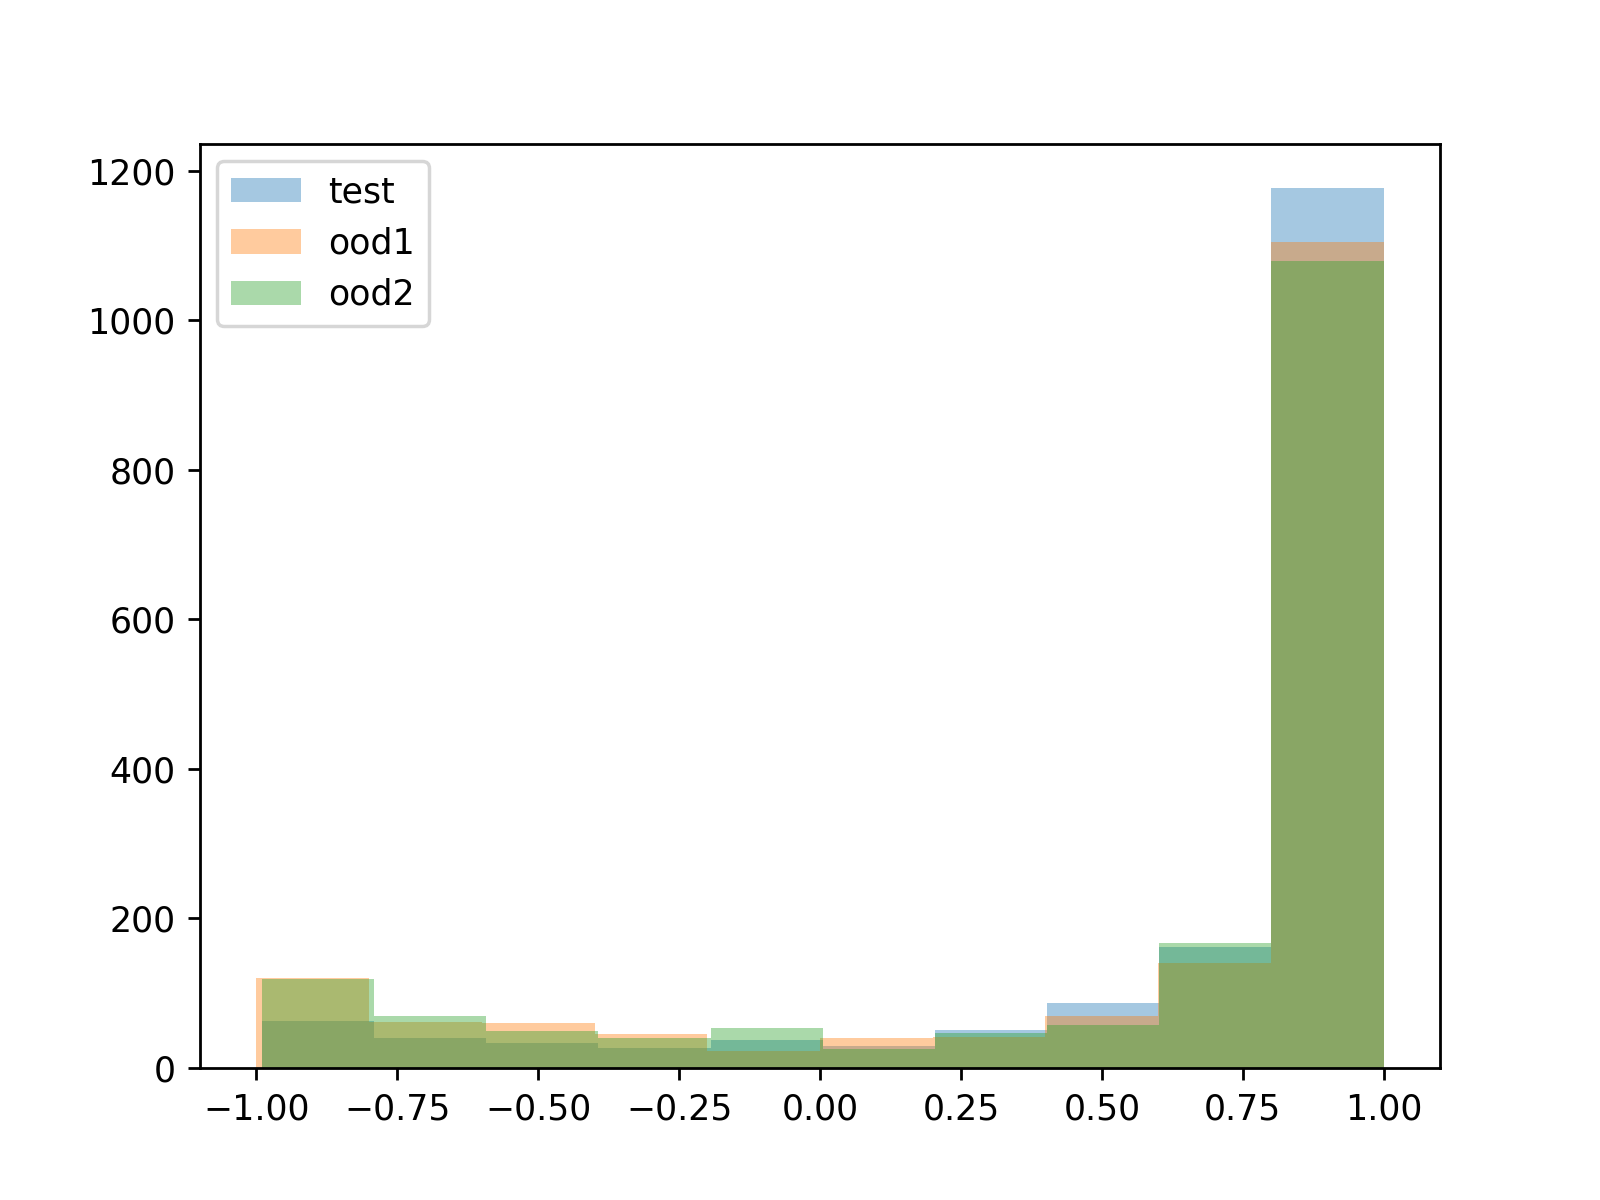
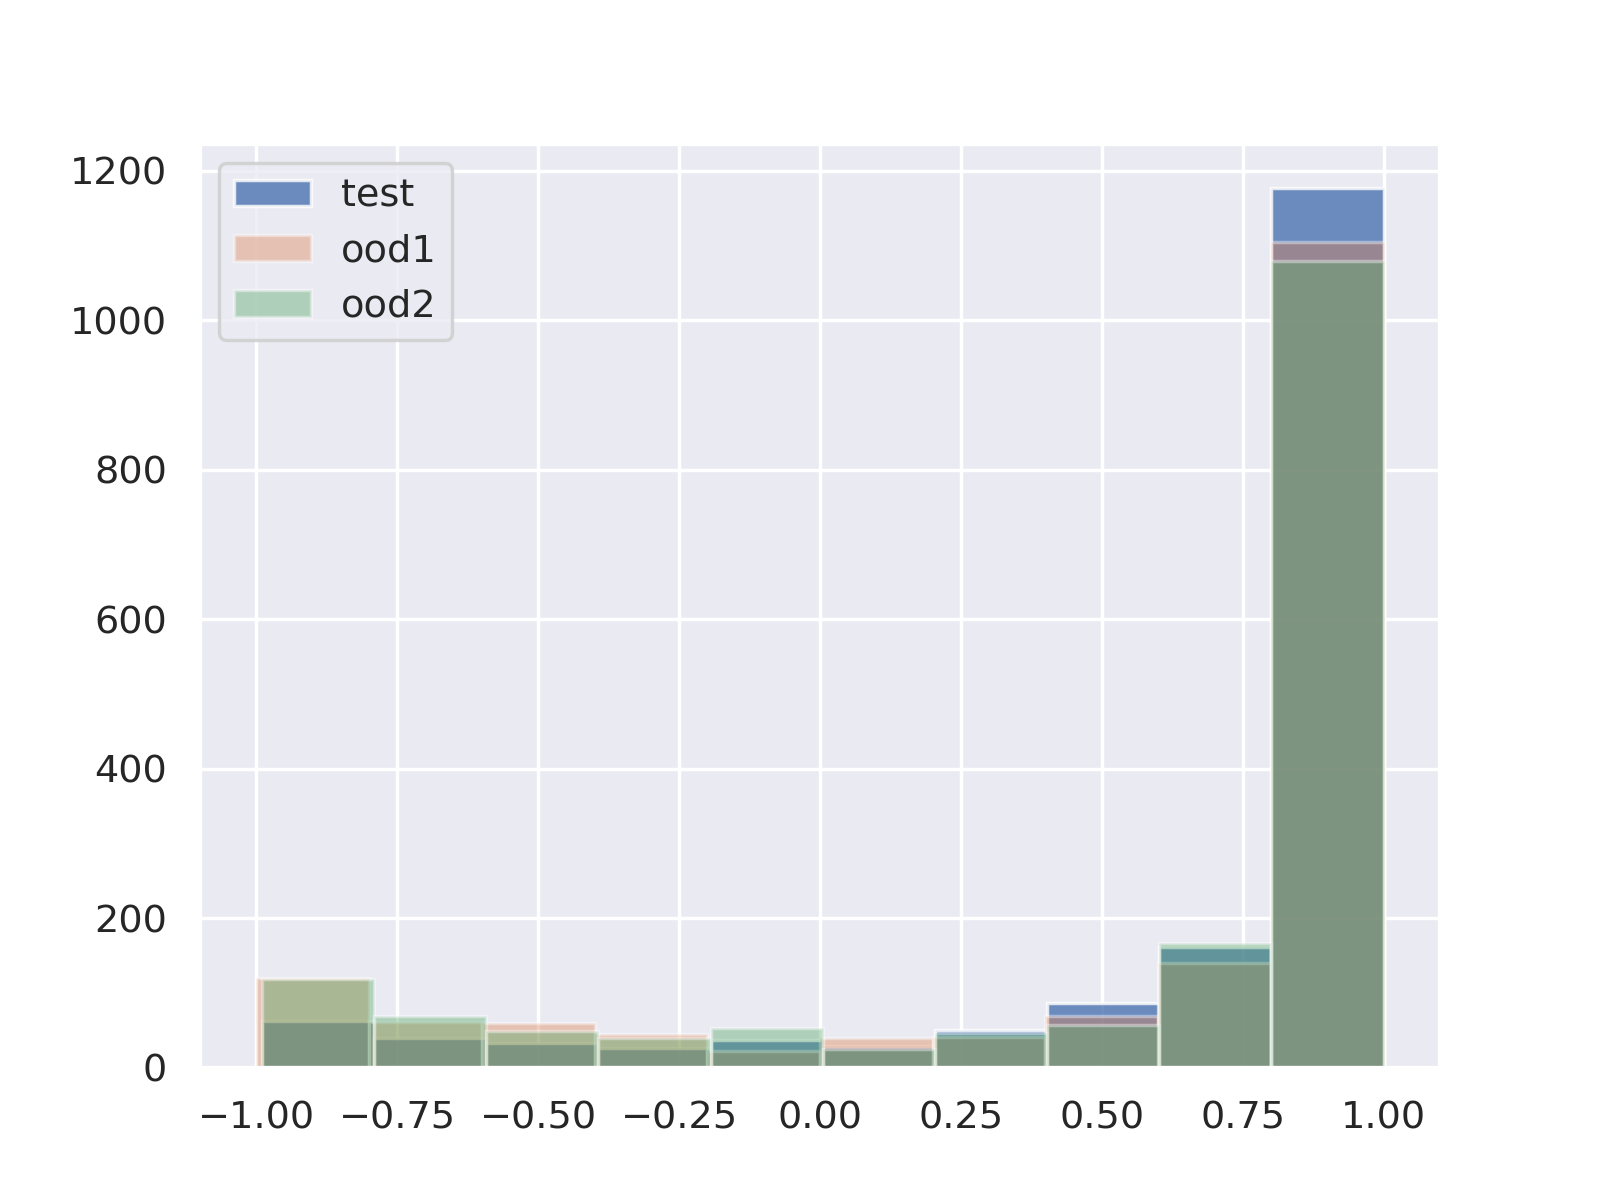
m

diff --git a/sentiment_distribution.py b/sentiment_distribution.py
@@ -11,21 +11,43 @@ import numpy as np
 import nltk
 from nltk.sentiment.vader import SentimentIntensityAnalyzer
 import seaborn as sns
+import scipy
 
 
+def jensen_shannon_divergence(repr1, repr2):
+    """Calculates Jensen-Shannon divergence (https://en.wikipedia.org/wiki/Jensen%E2%80%93Shannon_divergence)."""
+    avg_repr = 0.5 * (repr1 + repr2) # M
+    sim = 0.5 * (scipy.stats.entropy(repr1, avg_repr) + scipy.stats.entropy(repr2, avg_repr))
+    if np.isinf(sim):
+        # the similarity is -inf if no term in the document is in the vocabulary
+        return 0
+    return sim
 
+def kl_divergence(p, q):
+    return np.sum(np.where(p != 0, p * np.log(p / q), 0))
+
+task_list = ['agnews','xfact','factcheck','AmazDigiMu','AmazPantry','yelp']
 
 #method = 'Blob' 
 method = 'Vader'
-data = 'factcheck'
+data = 'xfact'
 ALPHA = 0.4
 
+def KL(P,Q):
+
+     epsilon = 0.00001
+     # You may want to instead make copies to avoid changing the np arrays.
+     P = P+epsilon
+     Q = Q+epsilon
+     divergence = np.sum(P*np.log(P/Q))
+     return divergence
 
 
 
-test = pd.read_json('./datasets/'+str(data)+'/data/test.json')
-ood1 = pd.read_json('./datasets/'+str(data)+'_ood1/data/test.json')
-ood2 = pd.read_json('./datasets/'+str(data)+'_ood2/data/test.json')
+# example of calculating the kl divergence (relative entropy) with scipy
+from scipy.special import rel_entr
+# define distributions
+# calculate (P || Q)
 
 def generate_sent_list(df, method):
     if method == 'Vader':
@@ -42,29 +64,55 @@ def generate_sent_list(df, method):
 
 
 
-test = generate_sent_list(test, method)
-ood1 = generate_sent_list(ood1, method)
-ood2 = generate_sent_list(ood2, method)
+def get_sent_diver(data):
 
+#train = pd.read_json('./datasets/'+str(data)+'/data/train.json')
+    test = pd.read_json('./datasets/'+str(data)+'/data/test.json')
+    ood1 = pd.read_json('./datasets/'+str(data)+'_ood1/data/test.json')
+    ood2 = pd.read_json('./datasets/'+str(data)+'_ood2/data/test.json')
 
+    #train = generate_sent_list(train, method)
+    test = generate_sent_list(test, method)
+    ood1 = generate_sent_list(ood1, method)
+    ood2 = generate_sent_list(ood2, method)
 
+    print(ood2)
 
+    # sns.set(style="darkgrid")
+    # sns.color_palette("hls", 8)
 
-sns.set(style="darkgrid")
-sns.color_palette("hls", 8)
+    #fig = sns.kdeplot(train['sentiment_score'], shade=False, color="r")
+    # fig = sns.kdeplot(test['sentiment_score'], shade=False, label = 'SynD', color="g")
+    # fig = sns.kdeplot(ood1['sentiment_score'], shade=True, label = 'AsyD1', color="b")
+    # fig = sns.kdeplot(ood2['sentiment_score'], shade=True, label = 'AsyD2', color="y")
+    # plt.show()
+    # fig = plt.gcf()
+    # fig.savefig('./sent_distribution/'+str(data)+str(method)+'.png', dpi=350)
+    # plt.legend()
 
-fig = sns.kdeplot(test['sentiment_score'], shade=False, color="r")
-fig = sns.kdeplot(ood1['sentiment_score'], shade=True, color="b")
-fig = sns.kdeplot(ood2['sentiment_score'], shade=True, color="y")
-plt.show()
+    density_t, bins_t, patches_t = plt.hist(test['sentiment_score'], label='test', alpha=ALPHA+0.4)
+    density1, bins1, patches1 = plt.hist(ood1['sentiment_score'], label='ood1', alpha=ALPHA)
+    density2, bins2, patches2 = plt.hist(ood2['sentiment_score'], label='ood2', alpha=ALPHA)
+    #plt.legend()
 
-# plt.hist(test['sentiment_score'], label='test', alpha=ALPHA+0.4)
-# plt.hist(ood1['sentiment_score'], label='ood1', alpha=ALPHA)
-# plt.hist(ood2['sentiment_score'], label='ood2', alpha=ALPHA)
-# plt.legend()
+    print(density1)
+    sent_diverge1 = jensen_shannon_divergence(density1, density_t)
+    sent_diverge2 = jensen_shannon_divergence(density2, density_t)
+    print(sent_diverge1, sent_diverge2)
 
+    return sent_diverge1, sent_diverge2
 
+sent_diver_list = []
+for task in task_list:
+    sent_diverge1, sent_diverge2 = get_sent_diver(task)
+    sent_diver_list.append(sent_diverge1)
+    sent_diver_list.append(sent_diverge2)
 
-fig = plt.gcf()
-fig.savefig('./sent_distribution/'+str(data)+str(method)+'.png', dpi=250)
+all_task_all_sentiment_and_corre = pd.read_csv('./saved_everything/all_tasks_all_factors_onlyAsyD.csv')
+all_task_all_sentiment_and_corre['Sent Div'] = sent_diver_list
+all_task_all_sentiment_and_corre = all_task_all_sentiment_and_corre.rename(columns={
+    'Suff changes':'Suff Diff','Comp changes':'Comp Diff','Temporal distance': 'Temp Diff','Corpus divergence':'Corp Diff','Text length':'Text Len'})
+
+all_task_all_sentiment_and_corre.to_csv('./saved_everything/all_task_all_sentiment_and_corre.csv')
+
 # plt.show()

diff --git a/correlation.py b/correlation.py
@@ -59,32 +59,35 @@ similarity_method = 'Topic jensen-shannon' # jensen-shannon renyi cosine euclide
 print(' ======================= ')
 
 if args.combine_all:
-    task_list = ['agnews','xfact','factcheck','AmazDigiMu','AmazPantry','yelp']
-    df_list = []
-    full_simi_df_list = []
-    for task in task_list:
-        df = pd.read_csv('./saved_everything/'+str(task)+'/corre_table_'+str(similarity_method)+'.csv')[['AsyD1', 'AsyD2']].T
-        df.columns = ['Suff changes','Comp changes','Temporal distance','Corpus divergence', 'Text length']
-        df['Task'] = str(task)
+    # task_list = ['agnews','xfact','factcheck','AmazDigiMu','AmazPantry','yelp']
+    # df_list = []
+    # full_simi_df_list = []
+    # for task in task_list:
+    #     df = pd.read_csv('./saved_everything/'+str(task)+'/corre_table_'+str(similarity_method)+'.csv')[['AsyD1', 'AsyD2']].T
+    #     df.columns = ['Suff changes','Comp changes','Temporal distance','Corpus divergence', 'Text length']
+    #     df['Task'] = str(task)
 
-        for fname in os.listdir('./saved_everything/'+str(task)+'/'):
-            if 'fulltext_similarity_vocab' in fname:
+    #     for fname in os.listdir('./saved_everything/'+str(task)+'/'):
+    #         if 'fulltext_similarity_vocab' in fname:
                 
-                full_simi = pd.read_csv('./saved_everything/'+str(task)+'/'+fname)
-                full_simi['Task'] = str(task)
-                #full_simi['Domain'] = ['SynD', 'AsyD1', 'AsyD2']
-                print(full_simi)
-        df_list.append(df)
-        full_simi_df_list.append(full_simi)
+    #             full_simi = pd.read_csv('./saved_everything/'+str(task)+'/'+fname)
+    #             full_simi['Task'] = str(task)
+    #             #full_simi['Domain'] = ['SynD', 'AsyD1', 'AsyD2']
+    #             print(full_simi)
+    #     df_list.append(df)
+    #     full_simi_df_list.append(full_simi)
 
-    df = pd.concat(df_list)
-    full_simi=pd.concat(full_simi_df_list)
-    full_simi.to_csv('./saved_everything/all_tasks_full_similarity.csv')
+    # df = pd.concat(df_list)
+    # full_simi=pd.concat(full_simi_df_list)
+    # full_simi.to_csv('./saved_everything/all_tasks_full_similarity.csv')
     
-    df.to_csv('./saved_everything/all_tasks_all_factors_onlyAysD.csv')
-    print('+++++++++++++')
+    # df.to_csv('./saved_everything/all_tasks_all_factors_onlyAysD.csv')
+    # print('+++++++++++++')
+    # print(df)
+
+    df = pd.read_csv('./saved_everything/all_task_all_sentiment_and_corre.csv')[['Suff Diff','Comp Diff','Temp Diff','Corp Diff','Text Len']] # ,'Sent Div'
     print(df)
-    corr = df.corr(method='spearman')
+    corr = df.corr(method='kendall')
     #corr.to_csv('/saved_everything/'+str(similarity_method)+'_all.csv')
     corr.style.background_gradient(cmap='coolwarm')
     print(corr)
@@ -92,20 +95,21 @@ if args.combine_all:
     
     import seaborn as sns
     import matplotlib.pyplot as plt
-    plt.figure(figsize=(5.5, 3))
+    plt.figure(figsize=(4.5, 2.5))
     heatmap = sns.heatmap(corr, annot=True, annot_kws={'fontsize':10}, cmap="YlGnBu") #vmin=-1, vmax=1, 
     #heatmap.set_title('Correlation Matrix of Latent Factors', fontdict={'fontsize':13}) #, pad=12
-    fig1 = plt.gcf()
-    fig1.savefig('./saved_everything/correlation.png', dpi=250)
+
     plt.xticks(rotation=25, fontsize=10)
     plt.yticks(fontsize=10)
-    plt.subplots_adjust(left=0.257,
-                        bottom=0.28, 
+    plt.subplots_adjust(left=0.183,
+                        bottom=0.214, 
                         right=1, 
                         top=0.971, 
                         wspace=0.076, 
                         hspace=0.2,
                         )
+    fig1 = plt.gcf()
+    fig1.savefig('./saved_everything/correlation.png', dpi=550)
     plt.show()
     exit()
 
